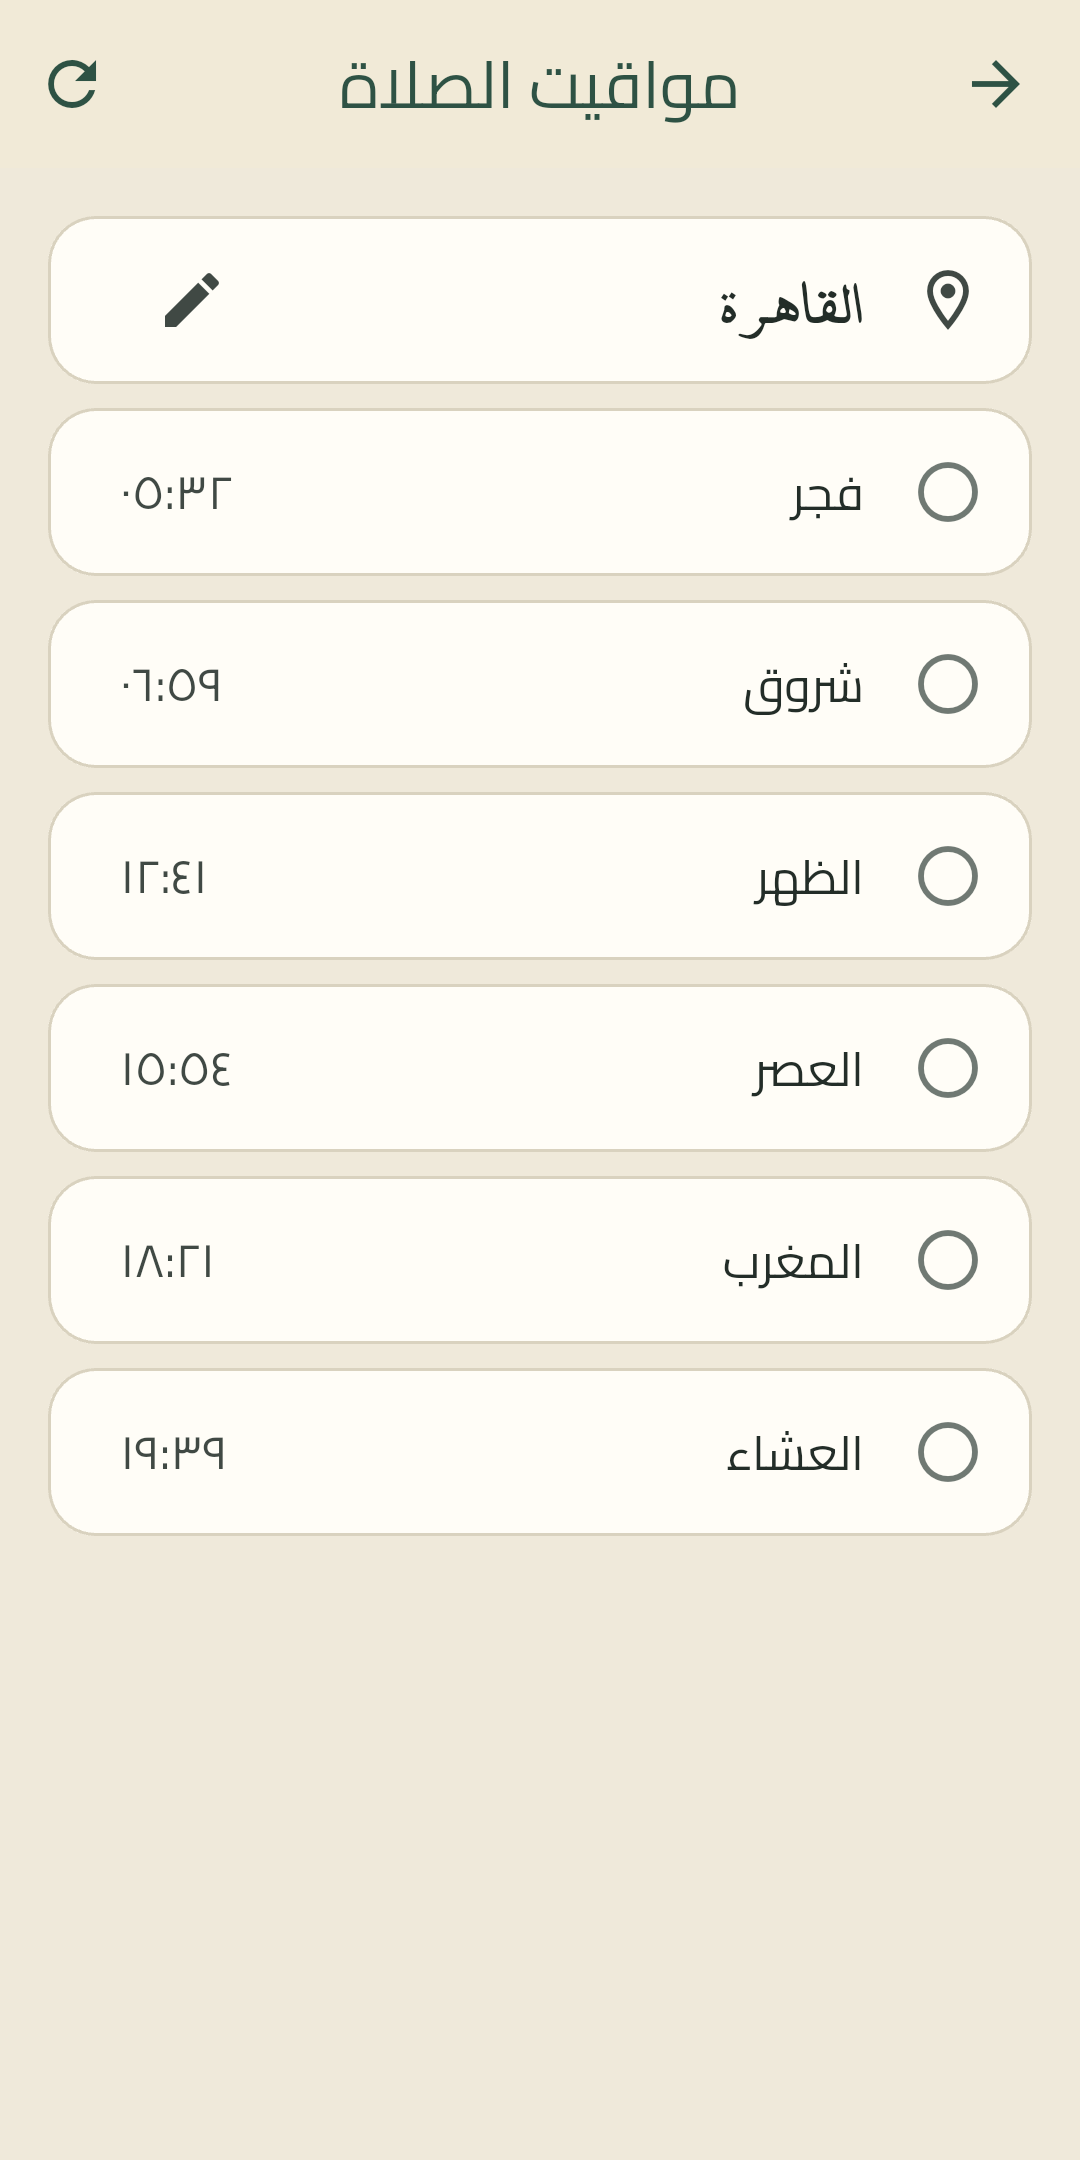
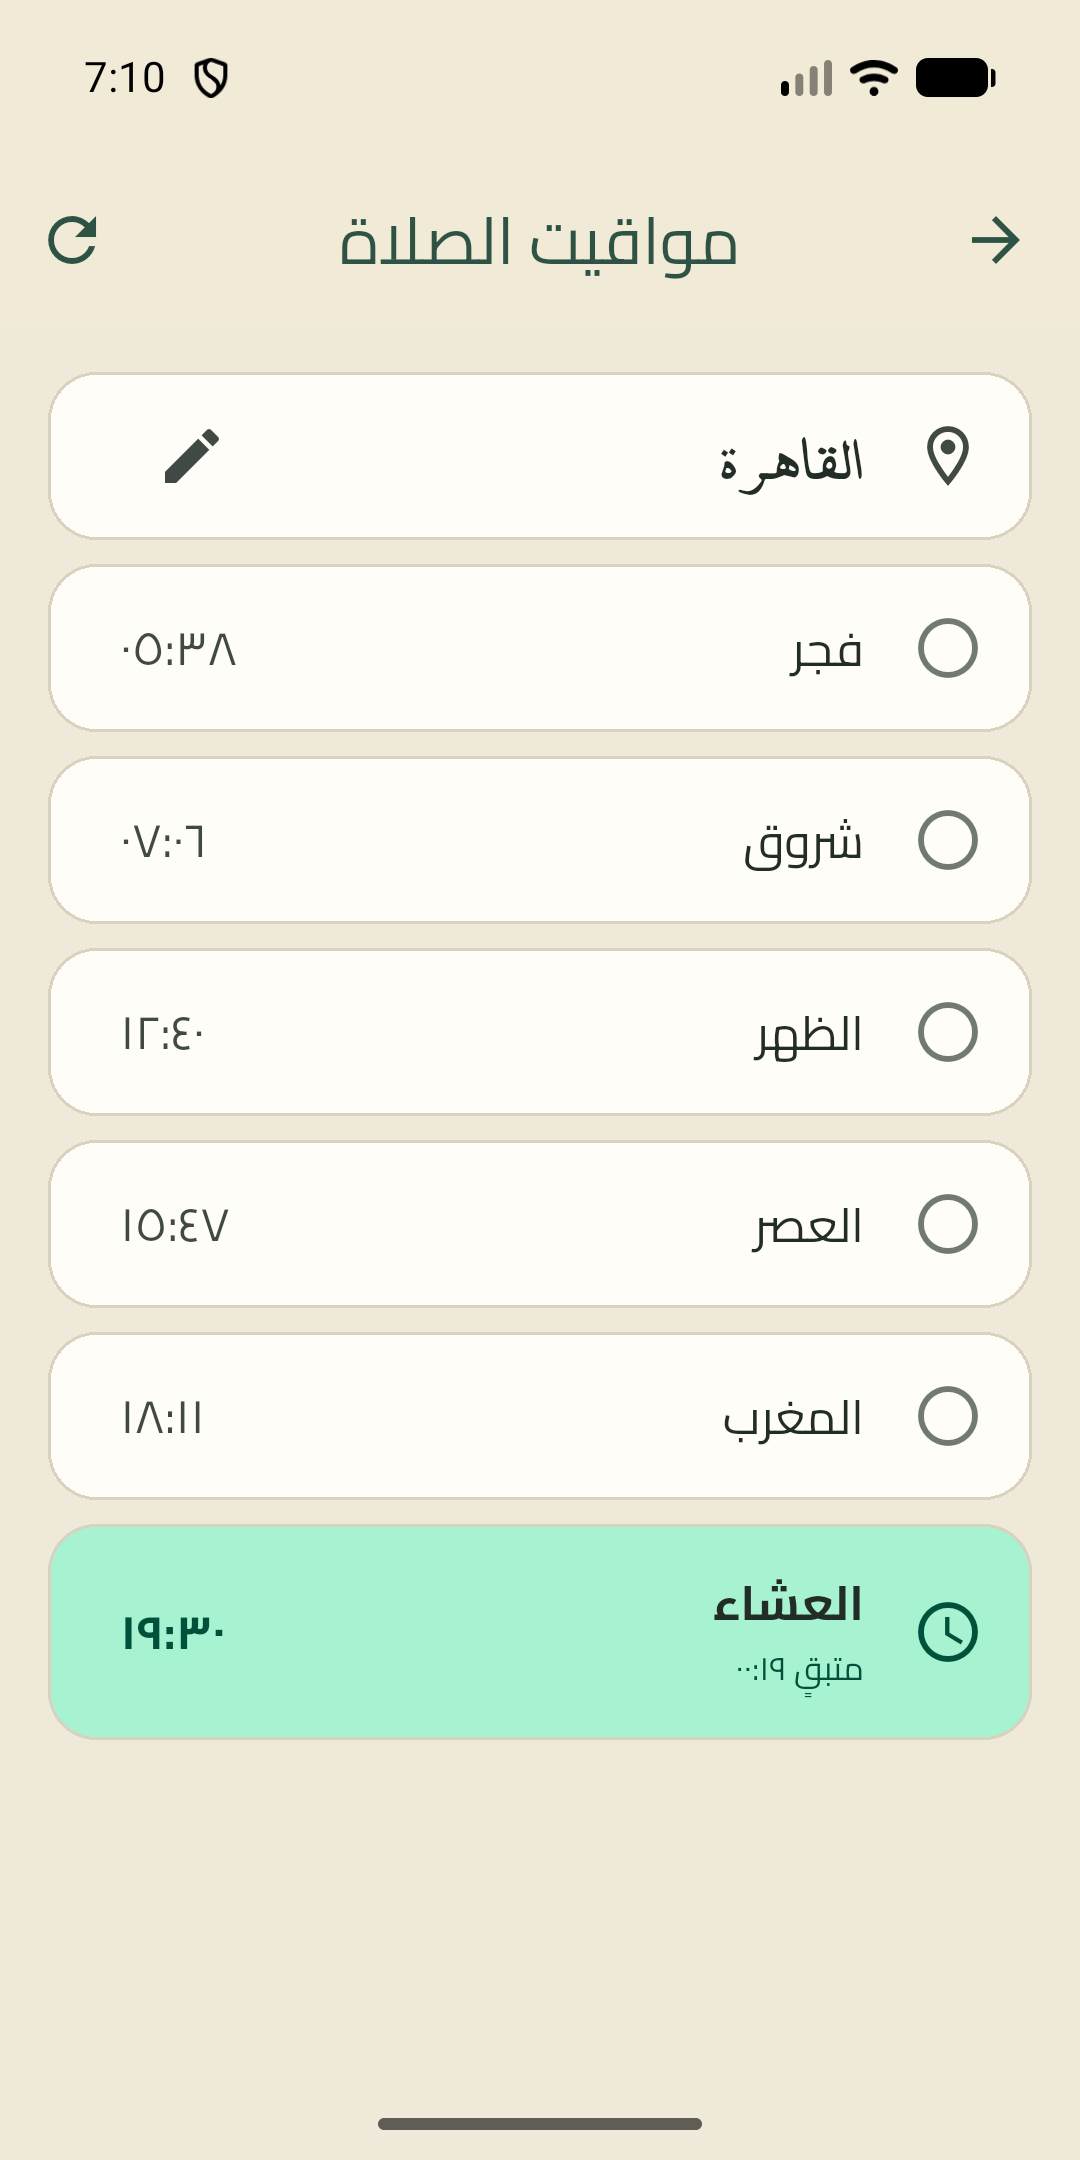
docs(store): recapture the 11 listing screenshots from 1.0.0+3
The committed set predated the licenses screen, the tracker/tasbih/zakat rebuilds and the reminder switch, and 05 showed a tafsir pack withdrawn for licensing. All 11 were re-shot at 1080x2160 from the signed 1.0.0+3 APK on a Pixel 9 Pro emulator: home (continue-reading + next prayer), index, reader, mushaf, the ayah sheet with only the installed pane, reciters, prayer times with the countdown, qibla with a live heading, azkar, the tracker with two prayers marked, and settings showing the new prayer-reminder switch.

diff --git a/docs/store/listing-ar.md b/docs/store/listing-ar.md
@@ -72,13 +72,13 @@
 
 ## قائمة لقطات الشاشة (checklist) — مرشحون (ملتقطة)
 
-> حالة REL-1 (محدّثة 2026-10-24): المرشحون الـ11 **موجودون فعلًا** داخل `docs/store/screenshots/` بمقاس **1080×2160** — القائمة أدناه ملتقطة وليست ناقصة. تُعاد اللقطات فقط إذا تغيّرت الواجهة (ابنِ APK ثم `tools/device_smoke.ps1` للتثبيت والتحقق).
+> حالة REL-1 (محدّثة 2026-10-28): المرشحون الـ11 **موجودون فعلًا** داخل `docs/store/screenshots/` بمقاس **1080×2160** وعُدّلت كلها من بناء `1.0.0+3` الموقّع (APK، ملفات `x86_64` على إيموليتور Pixel 9 Pro بمقاس 1080×2160). تُعاد اللقطات فقط إذا تغيّرت الواجهة.
 
 - [x] `01-home.png` — الرئيسية: بطاقة الصلاة القادمة + متابعة القراءة + شبكة الميزات (الأهم — أول صورة)
 - [x] `02-index.png` — فهرس السور مع شريط البحث
 - [x] `03-reader.png` — القارئ آية-بآية بلون النص الذهبي
 - [x] `04-mushaf.png` — وضع المصحف الصفحي بمؤشر الصفحة
-- [x] `05-ayah-sheet.png` — شاشة الآية: تبويبات الترجمة والتفسير تظهر فقط للحِزم المثبَّتة عندك، ولا يوجد زر حفظ داخل الشاشة (الحفظ من صف الآية في القارئ) — **يجب إعادة التقاط هذه اللقطة قبل الرفع**
+- [x] `05-ayah-sheet.png` — شاشة الآية: تبويبات الترجمة والتفسير تظهر فقط للحِزم المثبَّتة عندك، ولا يوجد زر حفظ داخل الشاشة (الحفظ من صف الآية في القارئ)
 - [x] `06-recitation.png` — كتالوج القُرّاء مع القسم المميز أعلى القائمة
 - [x] `07-prayer-times.png` — مواقيت الصلاة لمدينة مختارة
 - [x] `08-qibla.png` — بوصلة القبلة بتوجيه حي
@@ -88,4 +88,4 @@
 
 مواصفات المتجر: هاتف (بورتريه) 16:9 أو 9:16، لقطات بدون بيانات شخصية حقيقية، الأولوية للوضع الفاتح.
 
-> حالة 2026-10-18: تم التقاط المرشحين الـ11 من جهاز حقيقي (وضع فاتح — و`11` داكن) وحفظهم في `docs/store/screenshots/` بمقاس **1080×2160** (قص 2:1 متوافق مع Play). الاختيار والترتيب النهائيان لصاحب المشروع.
+> حالة 2026-10-28: أُعيد التقاط المرشحين الـ11 من بناء `1.0.0+3` الموقّع على إيموليتور Pixel 9 Pro بمقاس **1080×2160** (قص 2:1 متوافق مع Play). اللقطات السابقة من 2026-10-18 (جهاز حقيقي) استُبدلت بالكامل. الاختيار والترتيب النهائيان لصاحب المشروع.

diff --git a/docs/store/listing-en.md b/docs/store/listing-en.md
@@ -72,13 +72,13 @@ Privacy matters: no accounts, no ads, no tracking, no data collection — everyt
 
 ## Screenshot checklist — captured candidates
 
-> REL-1 status (updated 2026-10-24): all 11 captures **are committed** at `docs/store/screenshots/` at **1080×2160** — this checklist is captured, not missing. Re-capture only if the UI changes (build an installable APK, then `tools/device_smoke.ps1` to install and boot-verify).
+> REL-1 status (updated 2026-10-28): all 11 captures **are committed** at `docs/store/screenshots/` at **1080×2160**, all re-shot from the signed `1.0.0+3` build (APK, `x86_64` on a Pixel 9 Pro emulator set to 1080×2160). Re-capture only if the UI changes.
 
 - [x] `01-home.png` — Home: next-prayer hero + continue reading + feature grid (most important — first slot)
 - [x] `02-index.png` — Surah index with search field
 - [x] `03-reader.png` — Verse-by-verse reader in the gold text tone
 - [x] `04-mushaf.png` — Paginated Mushaf mode with the page indicator
-- [x] `05-ayah-sheet.png` — Ayah sheet: only the panes whose pack is installed (translation/tafsir), and no bookmark control — bookmarks live on the reader's ayah row. **Must be recaptured before upload**
+- [x] `05-ayah-sheet.png` — Ayah sheet: only the panes whose pack is installed (translation/tafsir), and no bookmark control — bookmarks live on the reader's ayah row.
 - [x] `06-recitation.png` — Reciters catalog with the featured section on top
 - [x] `07-prayer-times.png` — Prayer times for a chosen city
 - [x] `08-qibla.png` — Live Qibla compass
@@ -88,4 +88,4 @@ Privacy matters: no accounts, no ads, no tracking, no data collection — everyt
 
 Specs: phone (portrait) 16:9 or 9:16, no real personal data in frame, light theme preferred.
 
-> 2026-10-18 status: all 11 candidates captured from the real device (light theme — `11` dark) under `docs/store/screenshots/` at **1080×2160** (a 2:1 crop, Play-compliant). Final picks and ordering belong to the owner.
+> 2026-10-28 status: all 11 candidates re-shot from the signed `1.0.0+3` build on a Pixel 9 Pro emulator at **1080×2160** (a 2:1 crop, Play-compliant); the 2026-10-18 real-device set was replaced wholesale. Final picks and ordering belong to the owner.

diff --git a/docs/store/play-console-setup.md b/docs/store/play-console-setup.md
@@ -88,7 +88,7 @@ Primary source: `docs/store/data-safety-form-answers.md` (permission census + li
 | Localized screenshot sets | per locale | **None** — one phone set serves both `ar` and `en` |
 
 - [ ] Pick and order the 2–8 screenshots (owner decision; first slot should be `01-home.png`).
-- [ ] `05-ayah-sheet.png` shows the tafsir content that is no longer shipped — recapture it or do not select it.
+- [ ] `05-ayah-sheet.png` — re-shot on 2026-10-28 from `1.0.0+3`: it now shows only the installed pane (translation) with the Siraj text, no dead tafsir tab.
 - [x] Land `docs/store/feature-graphic-1024x500.png` before uploading (present, 1024×500).
 
 ## 6. Release checklist
